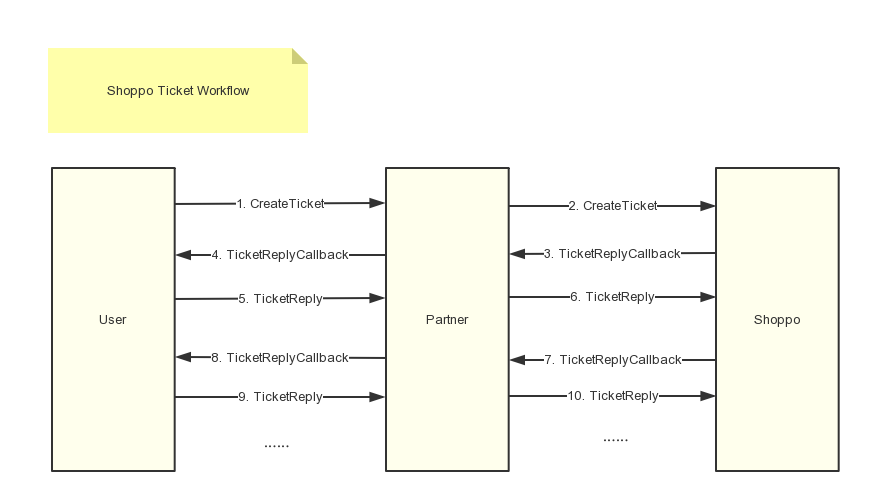
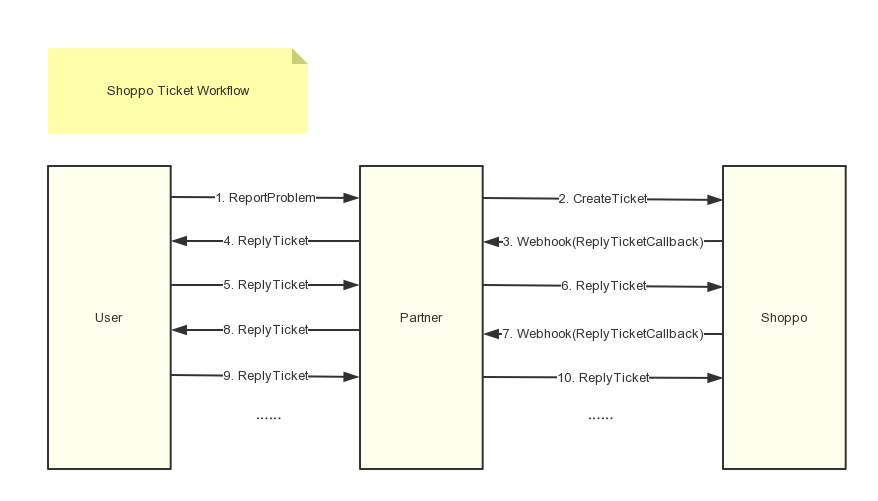
update ticket doc

diff --git a/docs/ticket.md b/docs/ticket.md
@@ -1,3 +1,18 @@
+
+# Content
+
+* [Shoppo Ticket Workflow](#shoppo-ticket-workflow)
+* [Ticket List](#ticket-list)
+* [Create Ticket](#create-ticket)
+* [Query Ticket](#query-ticket)
+* [Webhook(Reply Ticket Callback)](#webhook-reply-ticket-callback)
+* [Reply Ticket](#reply-ticket)
+
+
+## Shoppo Ticket Workflow
+
+![GraphiQLProduct](./imgs/ticket-flow.png)
+
 ## Ticket List
 
 ```graphql
@@ -34,8 +49,9 @@ first | Int | | limit size
 last | Int | | limit size
 after | String | | offset cursor
 before | String | | offset cursor
-filters | [TicketFilterInput](#ticketFilterInput) | | filter parameters
+filters | [TicketFilterInput](#ticket-filter-input) | | filter parameters
 
+<a name="ticket-filter-input" />
 `TicketFilterInput` fields:
 
 Name | Type | Required | Description
@@ -48,121 +64,193 @@ field name | type | required | description
 --- | --- | --- | ---
 length | Int | True | total matches count
 edges | List | True | ticket node list
-edges.node | [Ticket](#ticketNode) | | ticket node, please see [Ticket](#ticketNode) definition below
+edges.node | [Ticket](#ticket-node) | | ticket node, please see [Ticket](#ticket-node) definition below
 
-## Shoppo Ticket Workflow
-
-![GraphiQLProduct](./imgs/ticket-flow.png)
 
 ## Create Ticket
 
-Create ticket with content.
+Create ticket with title, author, order_id and content.
 
-* When created, the ticket status is new.
-* When customer reply the ticket, call another request to set the ticket status.
+* When created, the ticket status is `NEW`.
+* When customer service replied to the ticket, we will call [Webhook](#webhook-reply-ticket-callback) to reply your ticket.
+* There are 6 kinds of ticket status, see status details [here](#ticket-status).
 
 Create Ticket Mutation:
+
 ```graphql
 mutation createTicket(
-  $content: String!,
+  $title: String!,
+  $firstName: String!,
+  $lastName: String!,
+  $email: String!,
+  $orderId: String!,
+  $content: String!
 ) {
   createTicket(
-    content: $content,
+    title: $title,
+    firstName: $firstName,
+    lastName: $lastName,
+    email: $email,
+    orderId: $orderId,
+    content: $content
     ){
       ticket {
         id
         status
-        contents
+        title
+        author
+        orderId
+        content
+        replies {
+          edges {
+            node
+          }
+          length
+        }
       }
+    }
   }
-}
 ```
 
-Response ticket structure details, please see [Query Ticket](#queryTicket)
+Response ticket structure details, please see [Query Ticket](#query-ticket).
 
 Variables:
 
 Name | Type | Required | Description
 --- | --- | --- | ---
+title| String | True | ticket title
+firstName | String | True | ticket author's firstname
+lastName | String | True | ticket author's lastname
+email | String | True | ticket author's email
+orderId | String | True | order id
 content | String | True | ticket content
 
 
-<a name="queryTicket" />
 ## Query Ticket
 
-Query ticket with relay id
+Query ticket with reply id.
 
 ```graphql
 query ticket($id: ID!) {
   node(id: $id) {
     id
     status
+    title
+    firstName
+    lastName
+    email
+    orderId
     content
+    replies {
+      edges {
+        node
+      }
+      length
+    }
   }
 }
 ```
 
-<a name="ticketNode" />
+<a name="ticket-node" />
 
 `Ticket` fields:
 
 Name | Type | Required | Description
 --- | --- | --- | ---
-id | ID | True | ticket relay id
-status | [TicketStatus](#ticketStatus) | True | ticket enums status
-contents | List | True | ticket content list
+id | ID | True | ticket reply id
+status | [TicketStatus](#ticket-status) | True | ticket enums status
+firstName | String | True | ticket author's firstname
+lastName | String | True | ticket author's lastname
+email | String | True | ticket author's email
+orderId | String | True | order id
+content | String | True | ticket content
+replies.edges | List | | ticket reply node list
+replies.edges.node | [Reply](#reply-node) | | ticket reply node, please see [Reply](#reply-node) definition below
+replies.length | Int | True | total replies matches count
 
 
-### Ticket Status
-Ticket status enums
+## Webhook(Reply Ticket Callback)
 
-Value | 
---- |
-NEW | 
-OPEN | 
-PENDING |
-HOLD |
-SOLVED |
-CLOSED | 
-
-## Ticket Reply Callback
-
-We need you to provide a url to accept the post method for the shoppo call to reply ticket.
+We need you to provide a url to accept the `POST` method for the shoppo call to reply ticket.
 
 Post Variables:
 
 Name | Type | Required | Description
 --- | --- | --- | ---
-id | ID | True | ticket relay id
-content | String | True | ticket relay content
+id | ID | True | ticket reply id
+content | String | True | ticket reply content
 
-## Relay Ticket
+### Example delivery
 
-Users can reply to the ticket that was returned.
+```json
+POST /reply HTTP/1.1
+Host: localhost
+Content-Type: application/json
+Content-Length: 6615
+{
+  "id": "KJh51ba6sd23",
+  "content": "This is a reply to ticket."
+}
+```
+
+If the reply is successful, we would like to reply 200, and the reply is as follows. Otherwise we want to show specific error message in reply.
+
+```json
+{
+  "error": ""
+}
+```
+
+## Reply Ticket
+
+The user can reply to the return ticket with the reply id.
 
 ```graphql
-mutation relayTicket(
-  $id: ID!,
-  $content: String!,
+mutation replyTicket(
+  $replyId: $replyId,
+  $content: String!
 ) {
-  relayTicket(
-    id: $id,
-    content: $content,
+  replyTicket(
+    replyId: $replyId,
+    content: $content
     ){
       ticket {
         id
         status
-        contents
+        title
+        orderId
+        content
+        replies {
+          edges {
+            node
+          }
+          length
+        }
       }
+    }
   }
 }
 ```
 
 Response ticket structure details, please see [Query Ticket](#queryTicket)
-
+<a name="reply-node" />
 Variables:
 
 Name | Type | Required | Description
 --- | --- | --- | ---
-id | ID | True | ticket relay id
-contents | List | True | ticket content list
+replyId | ID | True | ticket reply id
+content | String | True | ticket reply content
+
+
+### Ticket Status
+
+There are six values for status: `New`, `Open`, `Pending`, `On-hold`, `Solved`, `Closed`. A ticket's status can be set and updated either manually by an agent or automatically via your business rules. A ticket's status cannot be changed to Closed manually however; that is handled automatically via your business rules.
+
+Value | Description
+--- | ---
+NEW | New means that the request was received but that it has not been opened and has not been assigned to an agent. The New status can indicate that the support team is evaluating it to determine who should be assigned to resolve it.
+OPEN | Open means that the request has been assigned to an agent who is working to resolve it. Once a ticket status changes to Open, it can never return to New. If your tickets are being created in the Open status instead of New, see [Why is my New ticket being created in Open status](https://support.zendesk.com/hc/en-us/articles/225763187)? in our Support Tech Notes.
+PENDING | Pending means that the assigned agent has a follow-up question for the requester. The agent may need more information about the support issue. Requests that are set to Pending typically remain that way until the requester responds and provides the information the agent needs to continue resolving the request.
+HOLD | On-hold means that the support request is awaiting a resolution from a third party—someone who is not a member of your support staff and does not have an agent account. This status is optional and must be added (see [Adding the On-hold ticket status to your Zendesk](https://support.zendesk.com/entries/22340998) in the Administrator Guide)
+SOLVED | Solved means that the agent has resolved the support issue. Solved tickets are closed, typically, a number of days after they have been set to Solved (the exact number of days depends on how an Administrator set this up). Until a ticket is closed, the requester can reopen the ticket. For example, the requester may not agree with the agent that the support issue is resolved and reply back to the ticket solved email notification.
+CLOSED | Closed means that the ticket is complete and can't be reopened. Requesters however can create follow-up requests for closed requests.
